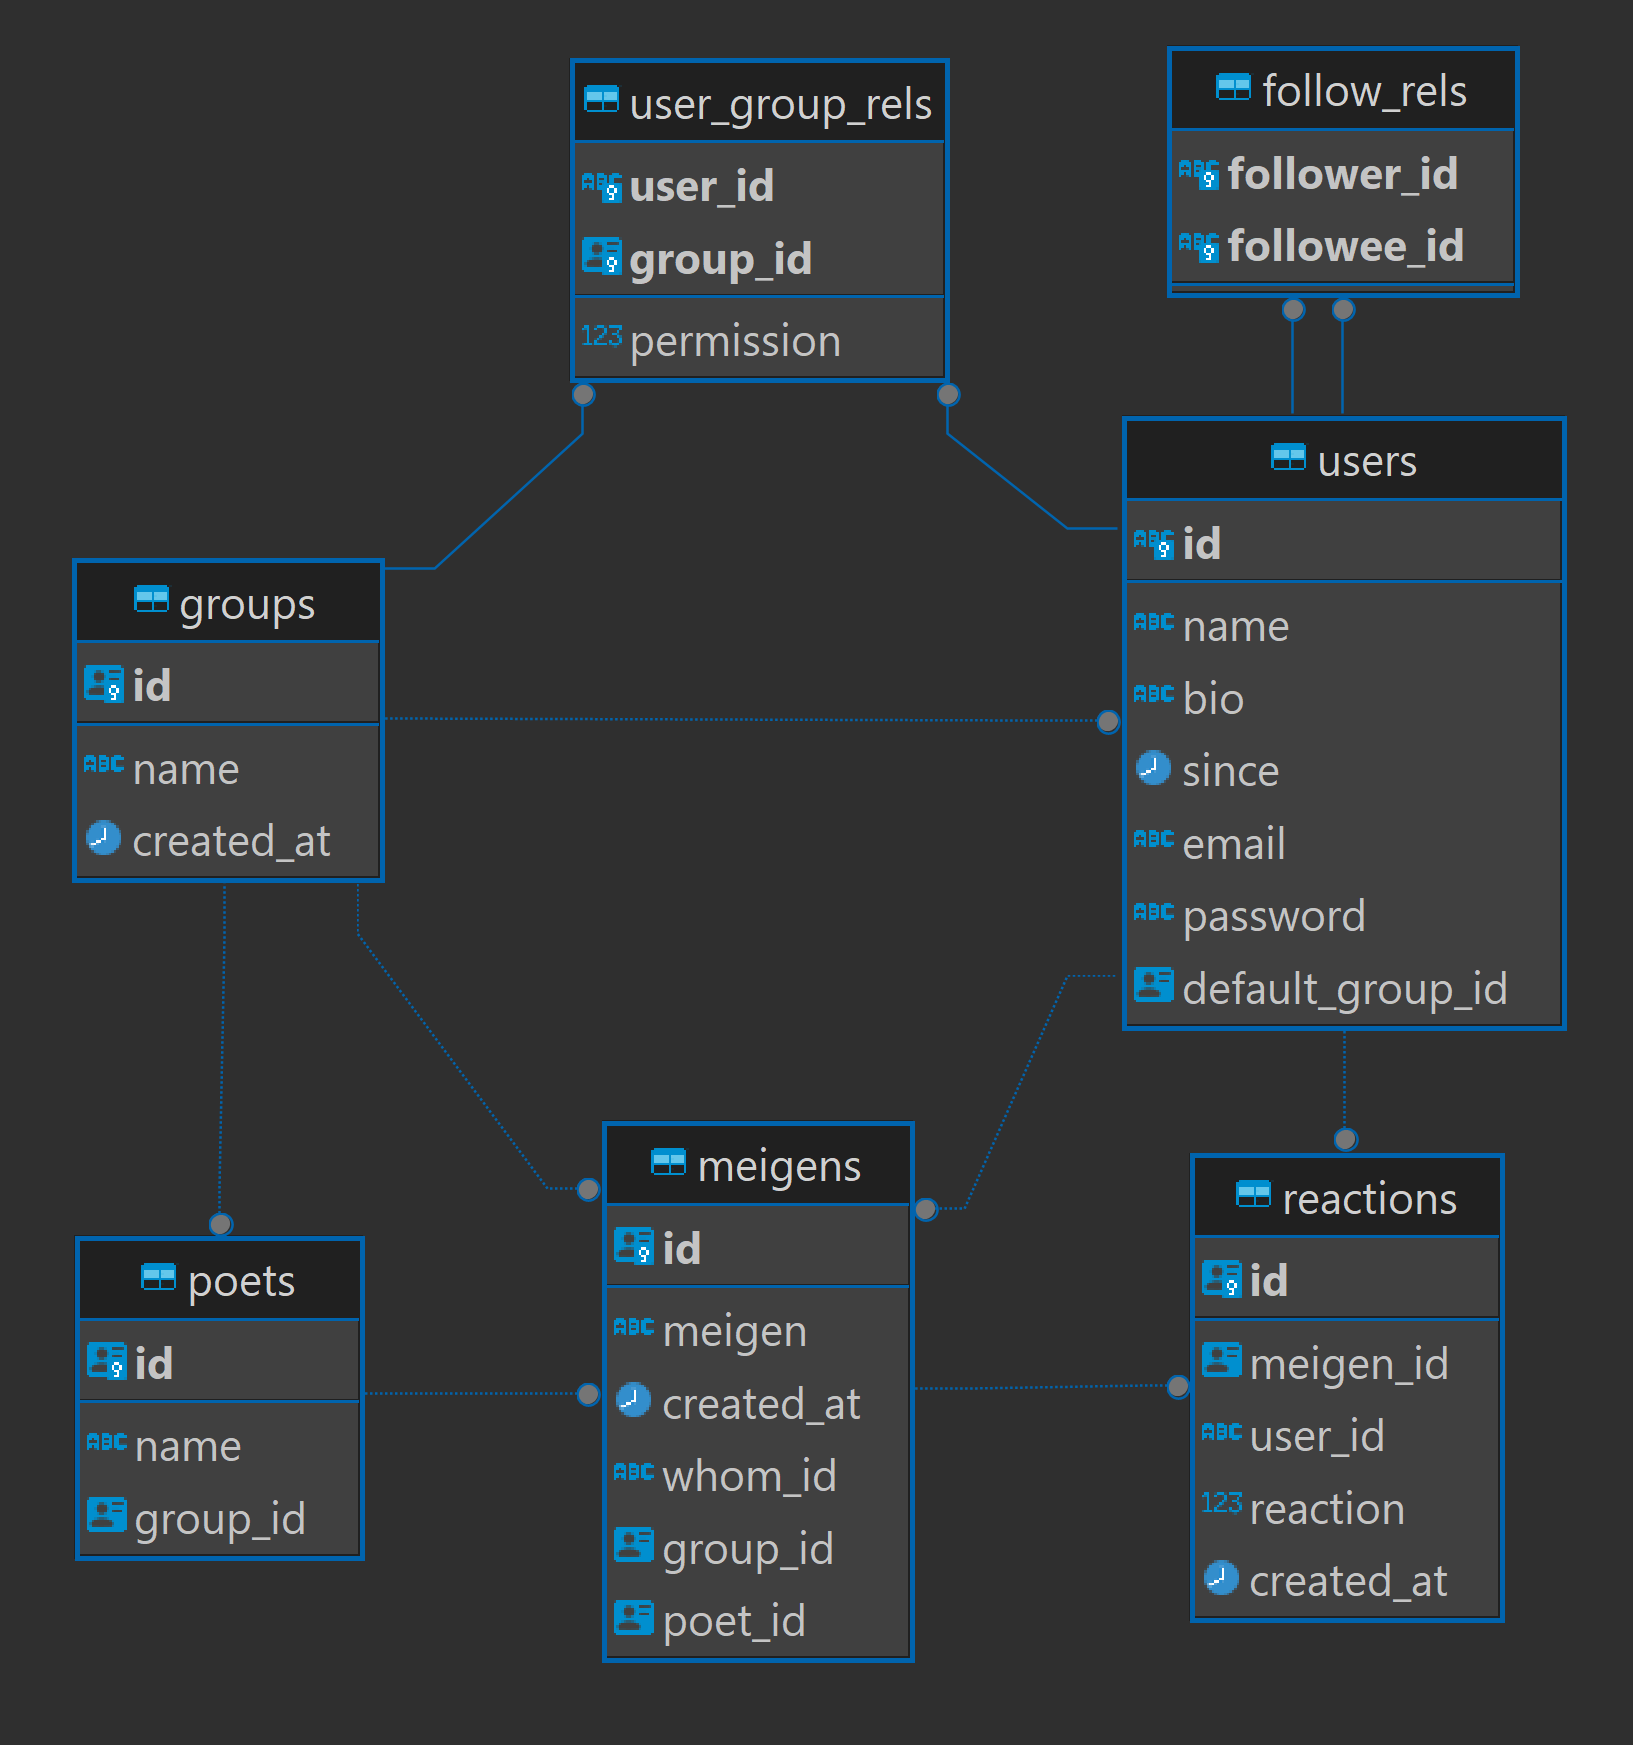
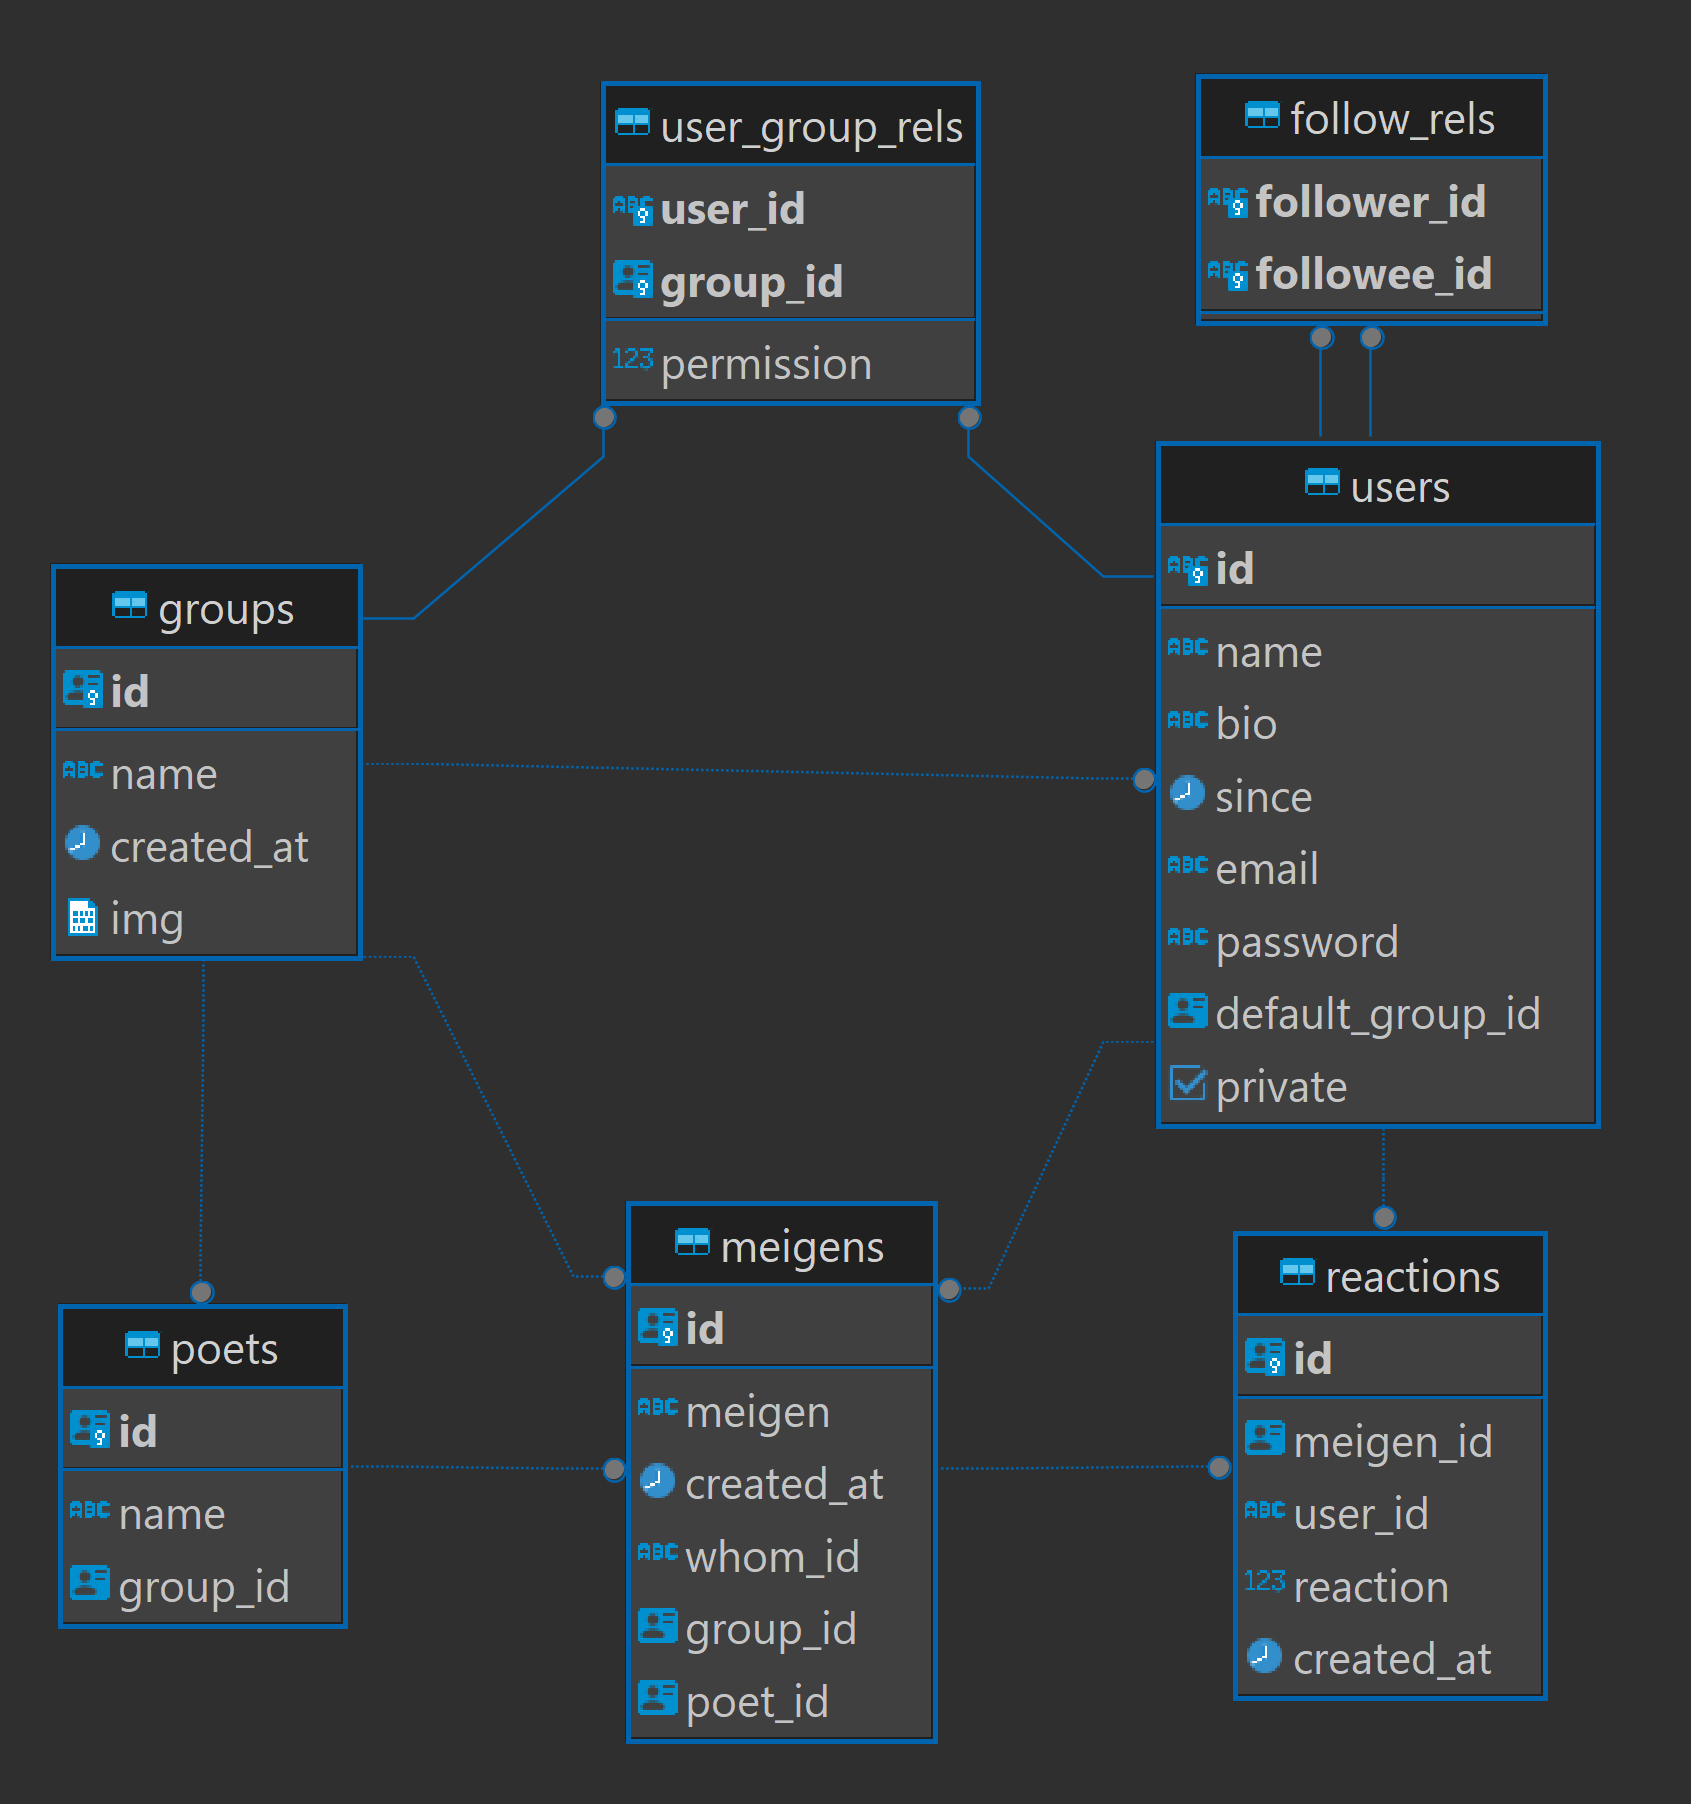
update README.md

diff --git a/README.md b/README.md
@@ -124,5 +124,36 @@ Query Parameters
 
 ***
 
+### `PATCH` /auth/path_user_image
+
+Query Parameters
+
+* `image` (Image File (png, jpg))
+
+Response &rArr;
+```json
+{
+	"message": "Successfully patched the user image.",
+}
+```
+
+***
+
+### `PATCH` /auth/path_group_image
+
+Query Parameters
+
+* `group_id`
+* `image` (Image File (png, jpg))
+
+Response &rArr;
+```json
+{
+	"message": "Successfully patched the group image.",
+}
+```
+
+***
+
 ## ER Diagram
 ![](DB_ER.png)
